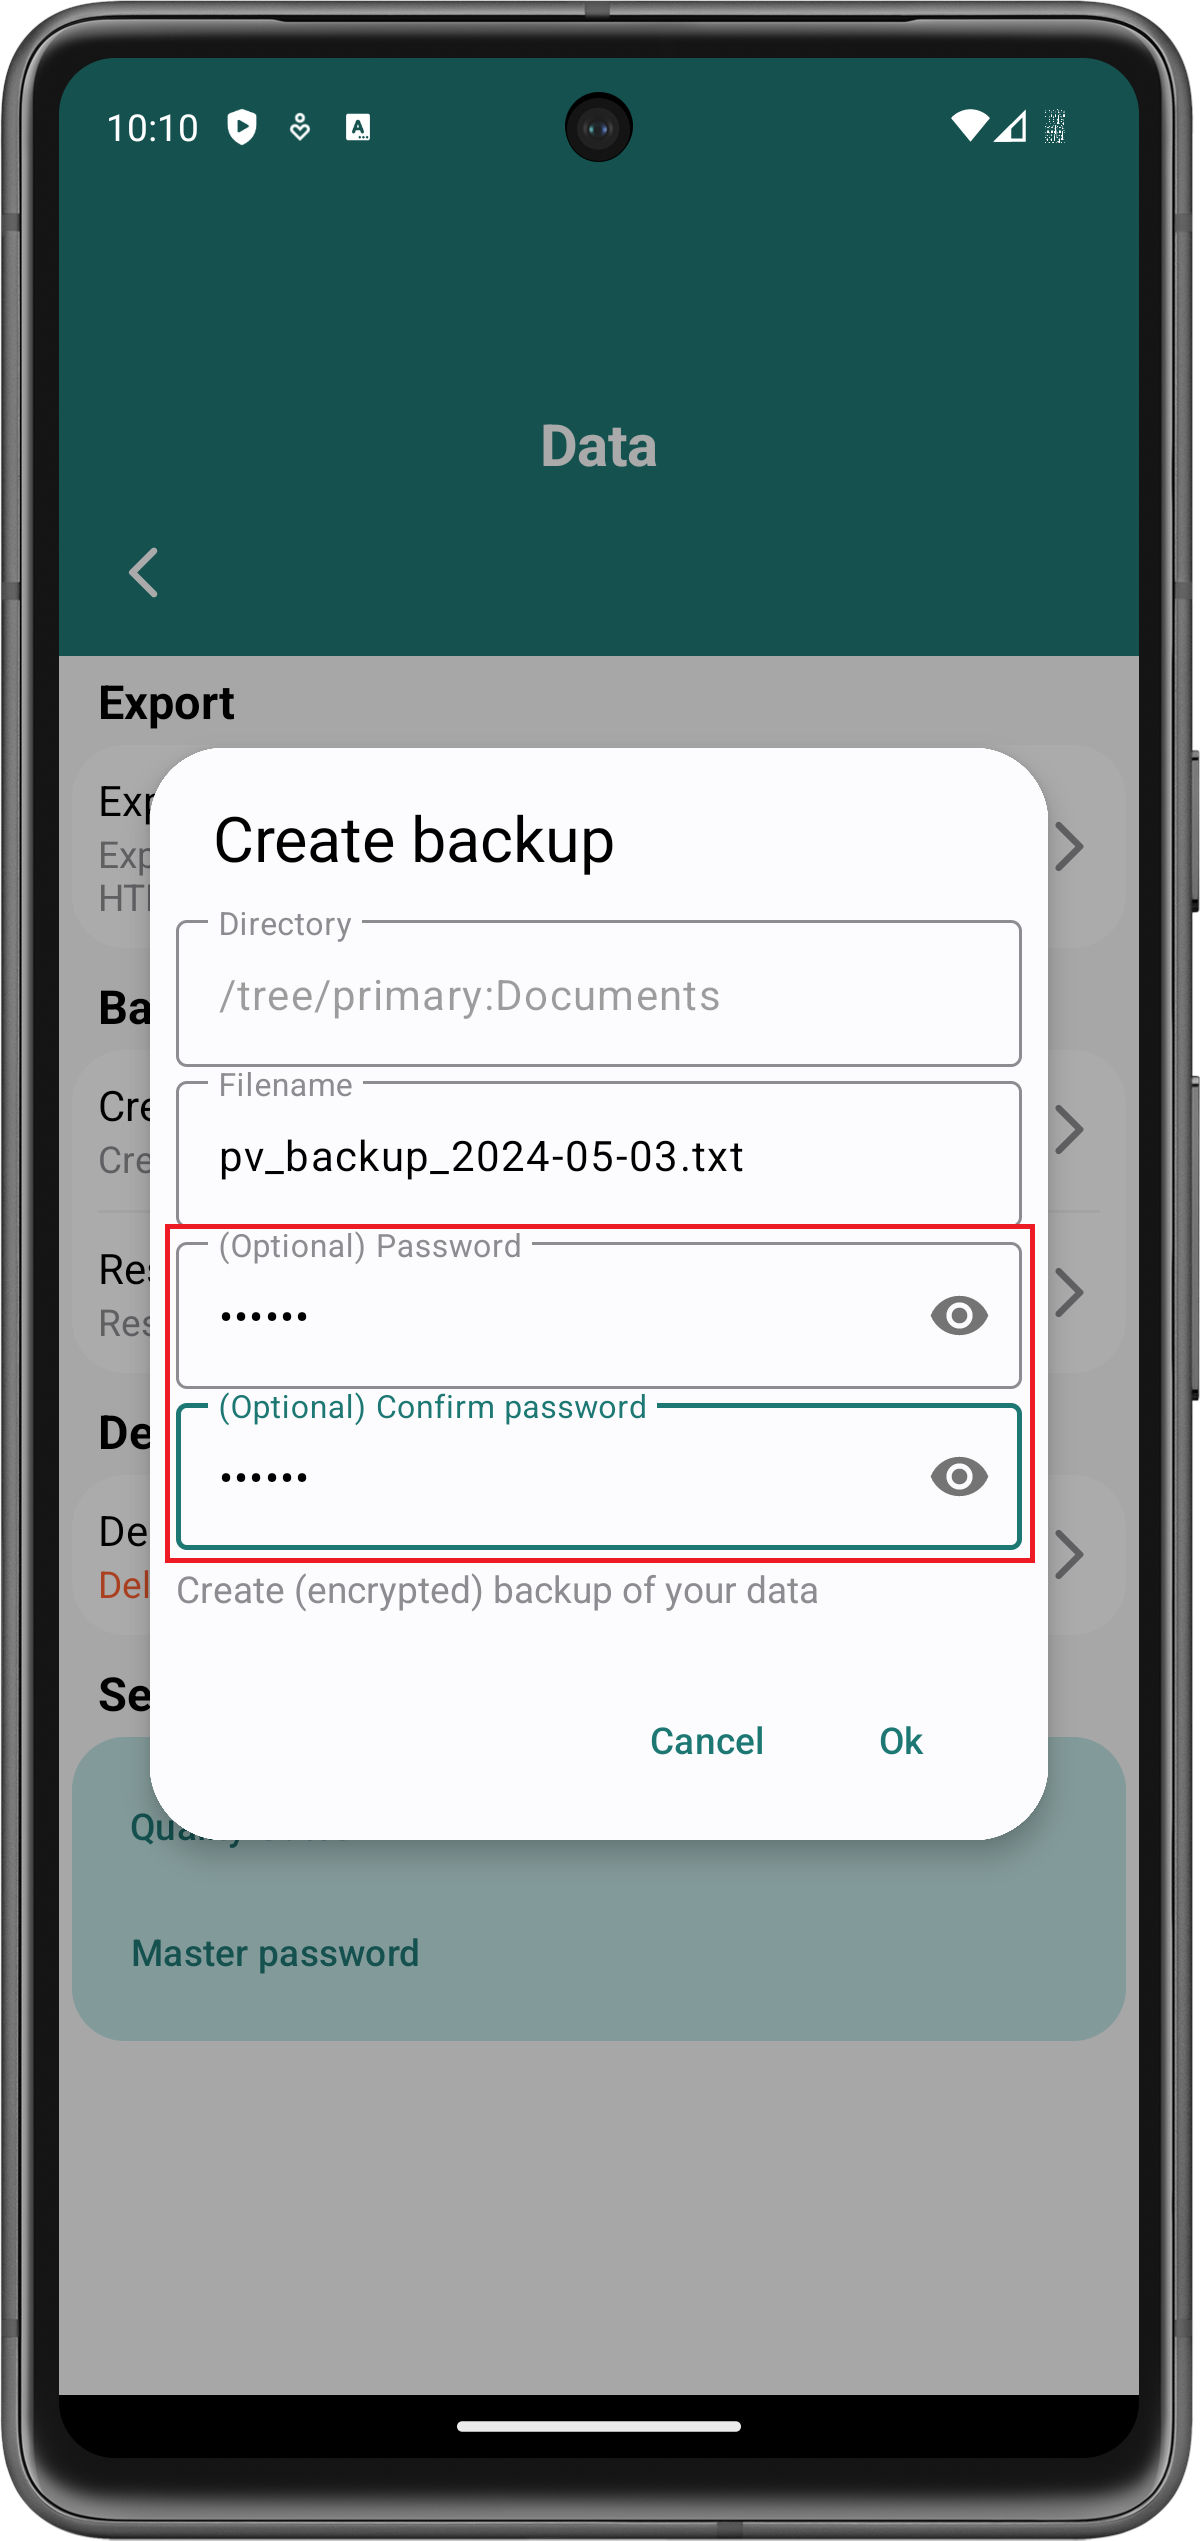
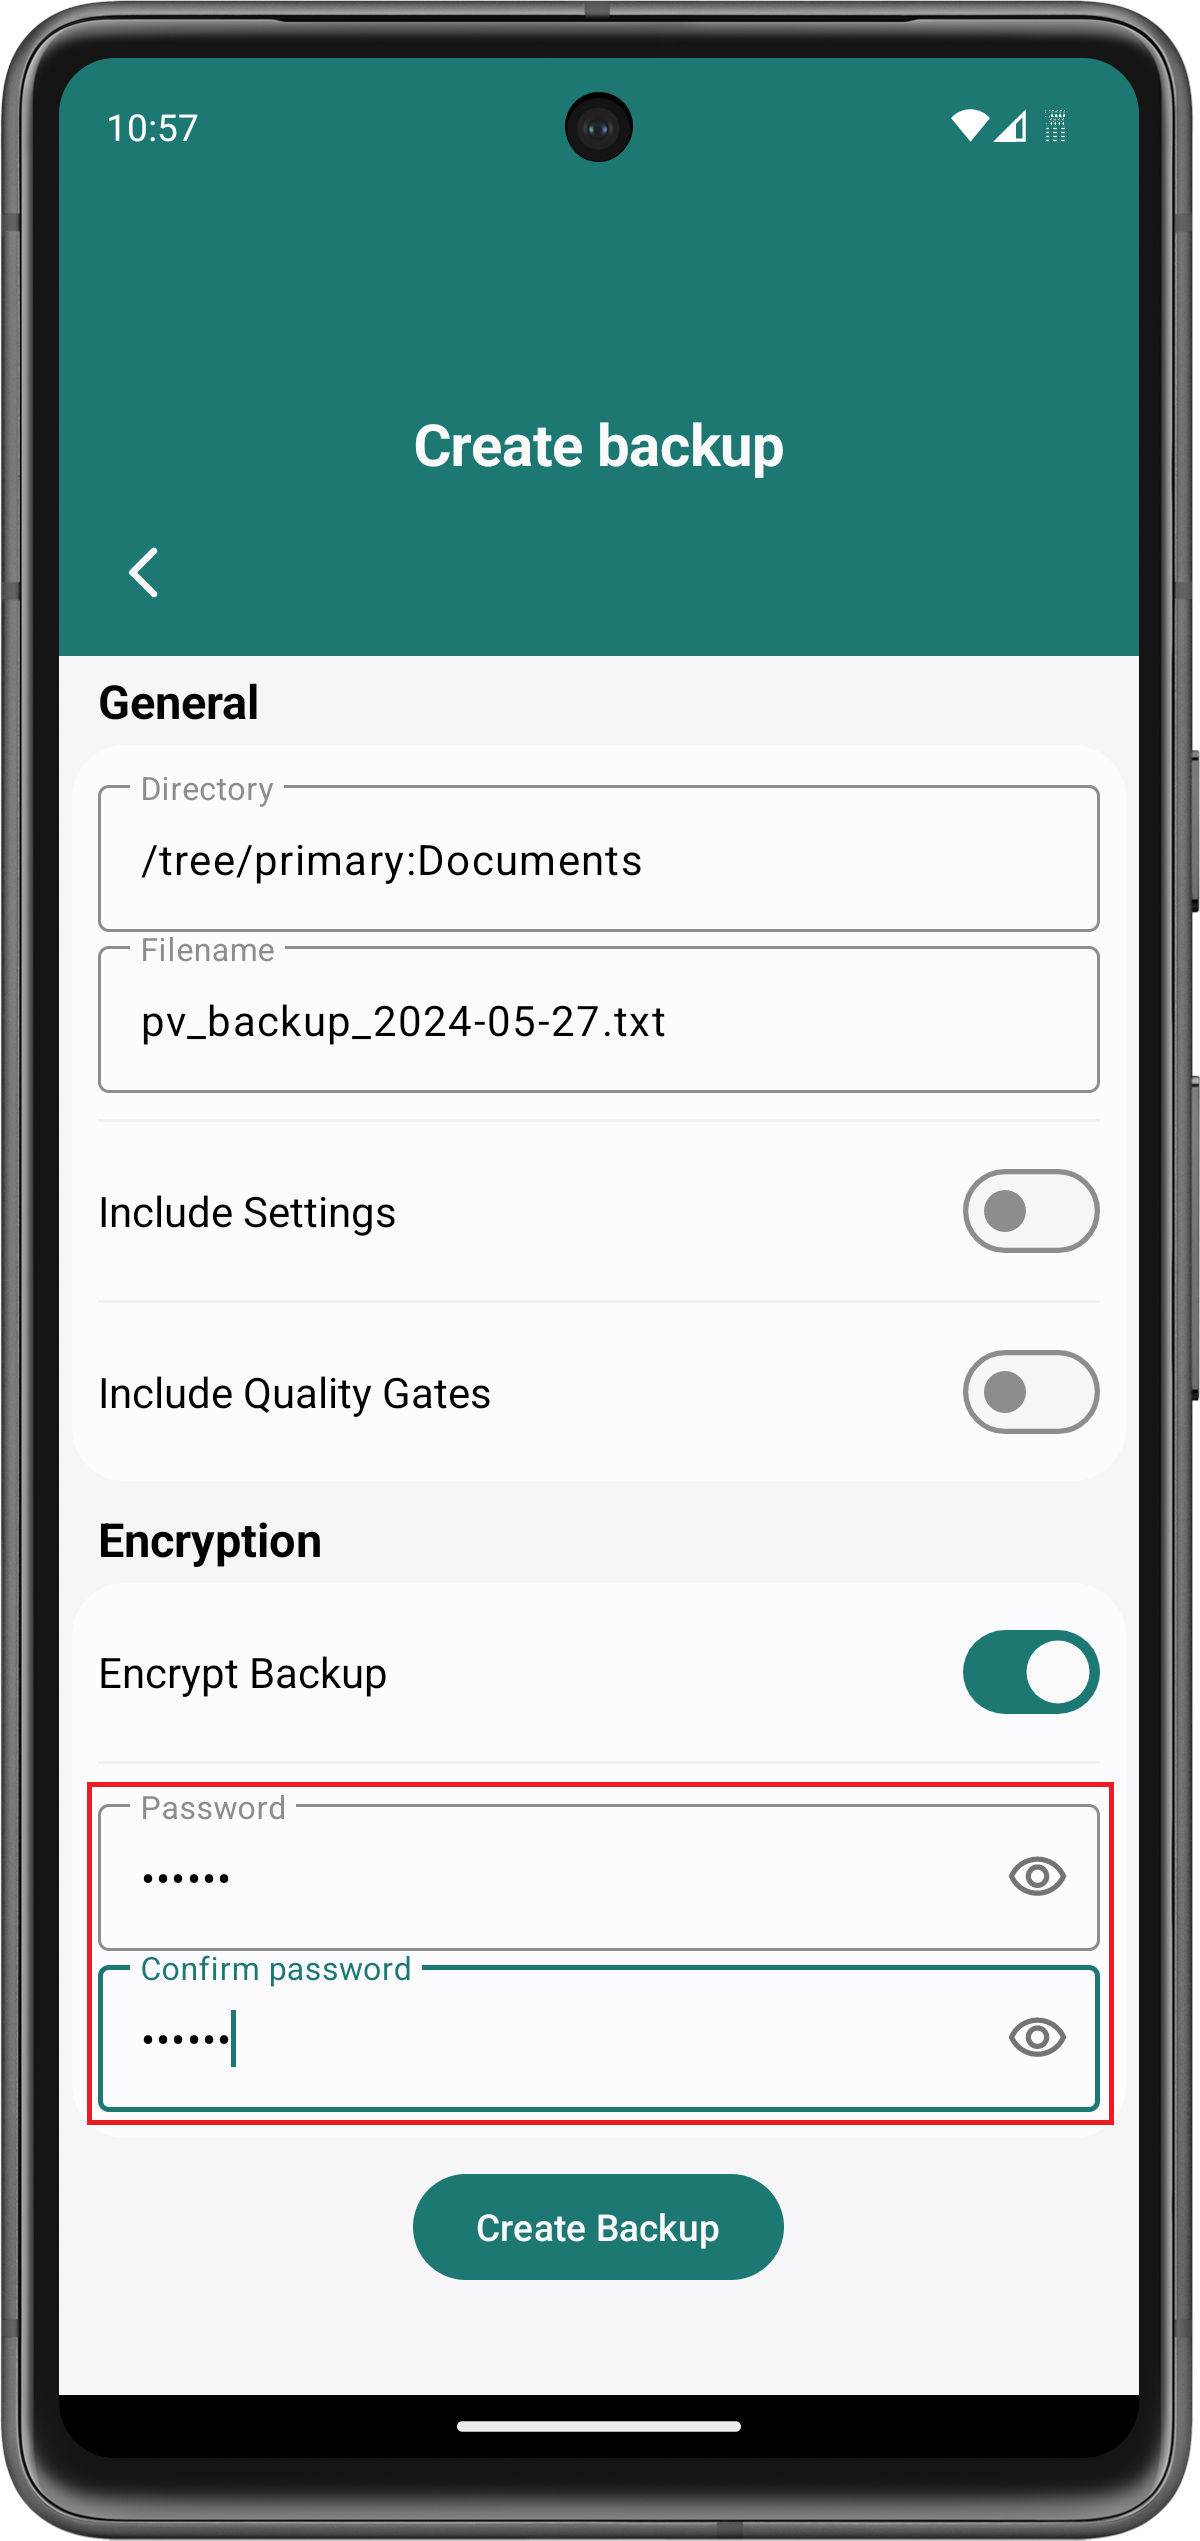
Update to help pages for backups

diff --git a/app/src/main/assets/help/de/backup.html b/app/src/main/assets/help/de/backup.html
@@ -21,39 +21,60 @@
 </ol>
 
 <h2 id="create-backup">Backup erstellen</h2>
-<p>Um ein Backup zu erstellen, gehe zu <b>Einstellungen > Daten</b> und klicke auf den <b>Backup
+<p>Um ein Backup zu erstellen, gehe zu <b>Einstellungen > Daten </b> und klicke auf den <b>Backup
     erstellen</b>-Knopf:</p>
 <img src="../res/img/backup_create_button.jpg"/>
-<p>Danach öffnet sich der Dateiexplorer deines Android-Smartphones. Navigiere in den Ordner, in welchem
-    du das Backup speichern möchtest und klicke auf den <b>Diesen Ordner verwenden</b>-Knopf. Unter
-    Umständen musst du Password Vault genehmigen, die Inhalte dieses Ordners zu bearbeiten. Klicke in
-    diesem Fall dazu auf <b>Zulassen</b>:</p>
+<p>Danach öffnet sich ein neues Fenster, über welches das Backup konfiguriert werden kann. Klicke auf
+    das Eingabefeld "<b>Ordner</b>" in der oberen Hälfte des Bildschirmes um einen Ordner auszuwählen,
+    in welchem das Backup gespeichert werden soll:</p>
+<img src="../res/img/backup_create_select_folder.jpg"/>
+<p>Es öffnet sich der Dateiexplorer deines Smartphones. Navigiere zum Ordner, in welchem du das Backup
+    speichern möchtest und klicke auf den <b>Diesen Ordner verwenden</b>-Knopf. Unter Umständen musst
+    du Password Vault die Erlaubnis erteilen, um Dateien in dem ausgewählten Ordner zu erstellen.
+    Klicke dazu auf <b>Zulassen</b>:</p>
 <div class="centered">
     <img src="../res/img/backup_create_folder.jpg"/>
     <img src="../res/img/backup_create_permission.jpg"/>
 </div>
-<p>Danach öffnet sich ein Dialogfeld. Du kannst den Dateinamen für das Backup ändern. Klicke auf
-    <b>Okay</b> um das Backup zu speichern.</p>
-<img src="../res/img/backup_create_save.jpg"/>
+<p>Falls du die App-Einstellungen oder die Passwortsicherheitskritereien in dem Backup exportieren
+    möchtest, dann klicke auf die entsprechenden Schalter:</p>
+<img src="../res/img/backup_create_switches.jpg"/>
+<p>Klicke danachauf den <b>Backup erstellen</b>-Knopf:</p>
+<img src="../res/img/backup_create.jpg"/>
 
 <h2 id="encrypt-backup">Backup verschlüsseln</h2>
-<p>Um ein Backup zu verschlüsseln, muss beim Erstellen des Backups ein Passwort angegeben werden:</p>
+<p>Um ein Backup zu verschlüsseln, klicke auf den entsprechenden Schalter und gebe ein Password an:</p>
 <img src="../res/img/backup_encrypt_password.jpg"/>
 <p>Das Passwort wird verwendet, um das Backup zu verschlüsseln. Wenn das Backup wiederhergestellt
-    werden soll, muss dieses Passwort angegeben werden. Andernfalls kann das Backup nicht entschlüsselt
-    werden.</p>
+    werden soll, muss dieses Passwort angegeben werden. Andernfalls kann das Backup nicht
+    entschlüsselt werden.</p>
 
 <h2 id="restore-backup">Backup wiederherstellen</h2>
 <p>Um ein Backup wiederherzustellen, gehe zu <b>Einstellungen > Daten</b> und klicke auf <b>Backup
     wiederherstellen</b>:</p>
 <img src="../res/img/backup_restore_button.jpg"/>
-<p>Danach öffnet sich der Dateiexplorer deines Android-Gerätes. Navigiere zum Ordner, in welchem das
-    wiederherzustellende Backup gespeichert ist und klicke auf die entsprechende Datei:</p>
+<p>Danach öffnet sich der Dateiexplorer deines Android-Gerätes. Navigiere zum Ordner, in welchem
+    das wiederherzustellende Backup gespeichert ist und klicke auf die entsprechende Datei:</p>
 <img src="../res/img/backup_restore_file.jpg"/>
-<p>Danach wird das Backup automatisch wiederhergestellt.</p>
-<p>Falls das Backup verschlüsselt war, öffnet sich ein Dialogfeld, in welchem das beim Erstellen
-    angegebene Passwort eingegeben werden muss. Gebe das Passwort ein und klicke <b>Okay</b>:</p>
+<p>Es öffnet sich ein Fenster, über welches das Backup wiederhergestellt werden kann. Falls möglich,
+    wähe aus, was mit den bestehenden Daten in Password Vault durchgeführt werden soll.</p>
+<p>Folgende Möglichkeiten stehen zur Verfügung:</p>
+<ul>
+    <li><p><b>Alle vorhandenden Daten löschen:</b> Hierdurch werden alle Daten, die aktuell in
+        Password Vault gespeichert sind gelöscht. Danach wird das Backup wiederhergestellt.</p></li>
+    <li><p><b>Duplikate überschreiben:</b> Falls einige Daten bereits in Password Vault gespeichert
+        sind, werden diese durch die Daten im Backup überschrieben.</p></li>
+    <li><p><b>Duplikate überspringen:</b> Falls eine Daten bereits in Password Vault gespeichert
+        sind, werden die jeweiligen Daten aus dem Backup nicht wiederhergestellt.</p></li>
+</ul>
+<img src="../res/img/backup_restore_override.jpg"/>
+<p>Falls das Backup App-Einstellungen oder Passwortsicherheitskriterien enthält kannst du auswählen,
+    ob diese ebenfalls wiederhergestellt werden sollen:</p>
+<img src="../res/img/backup_restore_options.jpg"/>
+<p>Falls das Backup verschlüsselt ist, muss jetzt das Passwort angegeben werden, mit welchem das
+    Backup zuvor verschlüsselt wurde:</p>
 <img src="../res/img/backup_restore_password.jpg"/>
-<p>Wenn das eingegebene Passwort korrekt ist, dann wird das Backup entschlüsselt und wiederhergestellt.</p>
+<p>Klicke danach auf den <b>Backup wiederherstellen</b>-Knopf:</p>
+<img src="../res/img/backup_restore.jpg"/>
 </body>
 </html>

diff --git a/app/src/main/assets/help/en/backup.html b/app/src/main/assets/help/en/backup.html
@@ -23,19 +23,24 @@
 <h2 id="create-backup">Create Backup</h2>
 <p>In order to create a backup, go to <b>Settings > Data</b> and click the <b>Create backup</b>-button:</p>
 <img src="../res/img/backup_create_button.jpg"/>
-<p>Afterwards, the default file explorer of your Android device opens. Navigate to a directory in which
+<p>Afterwards, a new window opens through which you can configure the backup. Click in the
+    <b>Directory</b>-input at the top to select a folder in which to store the backup:</p>
+<img src="../res/img/backup_create_select_folder.jpg"/>
+<p>This opens the default file explorer of your Android device. Navigate to a directory in which
     you want to store your backup and click on the <b>Use this folder</b>-button. You may need to allow
     Password Vault to access files in the specified directory. In this case, click <b>Allow</b>:</p>
 <div class="centered">
     <img src="../res/img/backup_create_folder.jpg"/>
     <img src="../res/img/backup_create_permission.jpg"/>
 </div>
-<p>Afterwards, a dialog opens. You may change the filename of the backup. Click <b>Ok</b> to save the
-    backup.</p>
-<img src="../res/img/backup_create_save.jpg"/>
+<p>If you want to export your app settings or the password quality gates, click on the respective
+    switches to do so:</p>
+<img src="../res/img/backup_create_switches.jpg"/>
+<p>Finally, click on the <b>Create backup</b>-button to create the backup:</p>
+<img src="../res/img/backup_create.jpg"/>
 
 <h2 id="encrypt-backup">Encrypt Backup</h2>
-<p>In order to encrypt a backup, provide a password as follows:</p>
+<p>In order to encrypt a backup, click the respective switch and provide a password as follows:</p>
 <img src="../res/img/backup_encrypt_password.jpg"/>
 <p>The password is used to encrypt the backup. If you restore the backup, you will need to enter the
     password. Otherwise, the data cannot be decrypted.</p>
@@ -46,10 +51,24 @@
 <p>Afterwards, the default file explorer of your Android device opens. Navigate to the directory in
     which the backup is located and click on the backup file:</p>
 <img src="../res/img/backup_restore_file.jpg"/>
-<p>The backup is then restored automatically.</p>
-<p>If the backup is encrypted, a dialog opens in which you need to enter the password that was used
-    when creating the backup. Enter the password and click <b>Ok</b>:</p>
+<p>A window opens through which you can restore the backup. If possible, select what to do with
+    existing data in case you try to restore data that is already existing.</p>
+<p>The following options are available:</p>
+<ul>
+    <li><p><b>Delete all existing data:</b> This deletes all existing data from Password Vault before
+        restoring the data from the backup.</p></li>
+    <li><p><b>Replace duplicates:</b> In case some data is present in Password Vault, it gets replaced
+        by the data from the backup.</p></li>
+    <li><p><b>Skip duplicates:</b> In case some data is present in Password Vault, the respective data
+        from the backup is not restored.</p></li>
+</ul>
+<img src="../res/img/backup_restore_override.jpg"/>
+<p>If the backup contains any app settings or quality gates, select whether you want to restore
+    them as well:</p>
+<img src="../res/img/backup_restore_options.jpg"/>
+<p>If the backup is encrypted, provide the password that was used to create the backup:</p>
 <img src="../res/img/backup_restore_password.jpg"/>
-<p>If the entered password is correct, the backup is restored.</p>
+<p>Afterwards, click the <b>Restore backup</b>-button to restore the backup:</p>
+<img src="../res/img/backup_restore.jpg"/>
 </body>
 </html>
